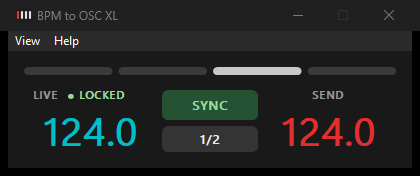
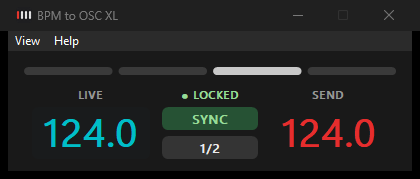
Align the tempo row, fix a tap tempo edge case, README on taking over
Layout
- Tempo numbers, flash boxes and the SYNC / 1/2 buttons in one grid with
  shared top and bottom edges; both buttons the same height.
- Digits centred on their actual shapes, not the font's line height.
- Detection status moved above the SYNC button, so LIVE and SEND are
  centred over their numbers without widening the window.
- Input level bar as tall as the beat lights.

Tap tempo
- A single tap more than a second before a run of taps no longer counts
  towards it (it set a tempo of a few BPM).

README
- How to take over by hand when the detection struggles: tap along with
  Space, fine tune, resync, back to sync with S.
- Status location and the beat flash; screenshots of the current layout.

diff --git a/main_gui.py b/main_gui.py
@@ -258,7 +258,7 @@ class Main_Frame(wx.Frame):
         self.show_detection_state(level)
 
     def show_detection_state(self, level):
-        """Status next to the live tempo: is the tempo coming from the music, or is the clock coasting?"""
+        """Status above the sync button: is the tempo coming from the music, or is the clock coasting?"""
         if not self.running:
             state = None
         elif level < 1:
@@ -438,50 +438,47 @@ class Main_Frame(wx.Frame):
 # BPM DISPLAYS: | LIVE | SYNC / 1/2 | SEND |
         numberfont = widgets.font(30, wx.FONTWEIGHT_SEMIBOLD, display=True)
 
-        def bpm_display(caption, colour, status=None):
-            """Small caption over a big number, sized for the widest tempo so it doesn't jump around"""
-            box = wx.BoxSizer(wx.VERTICAL)
-            # pulses on the beat, under the live tempo when synced, under the send tempo in manual
-            number = widgets.PulseNumber(panel, colour, numberfont)
-            caption_row = wx.BoxSizer(wx.HORIZONTAL)
-            caption_row.Add(heading(caption), 0, wx.ALIGN_CENTRE_VERTICAL)
-            if status is not None:
-                caption_row.Add(status, 0, wx.LEFT | wx.ALIGN_CENTRE_VERTICAL, border=8)
-            box.Add(caption_row, 0, wx.ALIGN_CENTRE_HORIZONTAL)
-            box.Add(number, 0, wx.EXPAND)
-            return box, number
-
-        # detection status, next to the live caption
-        self.status_text = wx.StaticText(panel, label="", style=wx.ST_NO_AUTORESIZE)
+        # detection status, above the sync button in the middle column
+        self.status_text = wx.StaticText(panel, label="", style=wx.ALIGN_CENTRE_HORIZONTAL | wx.ST_NO_AUTORESIZE)
         self.status_text.SetFont(widgets.font(8, wx.FONTWEIGHT_SEMIBOLD))
         self.status_text.SetMinSize(self.status_text.GetTextExtent("\u25cf NO SIGNAL") + wx.Size(4, 0))
 
-        live_box, self.live_number = bpm_display("Live", self.theme['live_on'], self.status_text)
-        send_box, self.send_number = bpm_display("Send", self.theme['send_on'])
+        # pulse on the beat, under the live tempo when synced, under the send tempo in manual;
+        # sized for the widest tempo so the layout doesn't jump around
+        self.live_number = widgets.PulseNumber(panel, self.theme['live_on'], numberfont)
+        self.send_number = widgets.PulseNumber(panel, self.theme['send_on'], numberfont)
 
 # SYNC & HALF TIME BUTTONS between the displays
+        # as tall as the numbers' flash boxes, both buttons the same height
         middle = wx.BoxSizer(wx.VERTICAL)
-        self.button_sync = widgets.FlatButton(panel, 'SYNC', self.theme, toggle=True, size=(96, 30),
+        self.button_sync = widgets.FlatButton(panel, 'SYNC', self.theme, toggle=True, size=(96, 20),
                                               accent=self.theme['sync_fill'], font_=buttonfont)
         self.button_sync.SetForegroundColour(self.theme['status_sync'])
         self.button_sync.SetValue(True)
         self.button_sync.SetToolTip("Sync send tempo to live tempo (S)")
         self.buttons_to_disable.append(self.button_sync)
-        middle.Add(self.button_sync, 0, wx.EXPAND)
+        middle.Add(self.button_sync, 1, wx.EXPAND)
         self.Bind(wx.EVT_TOGGLEBUTTON, self.on_button_sync, self.button_sync)
 
-        self.button_halftime = widgets.FlatButton(panel, '1/2', self.theme, toggle=True, size=(96, 26),
+        self.button_halftime = widgets.FlatButton(panel, '1/2', self.theme, toggle=True, size=(96, 20),
                                                   accent=self.theme['toggle_fill'], font_=buttonfont)
         self.button_halftime.SetToolTip("Half time (H)")
         self.buttons_to_disable.append(self.button_halftime)
-        middle.Add(self.button_halftime, 0, wx.EXPAND | wx.TOP, border=6)
+        middle.AddSpacer(6)  # a spacer, not a border: a border would count towards this button's share
+        middle.Add(self.button_halftime, 1, wx.EXPAND)
         self.Bind(wx.EVT_TOGGLEBUTTON, self.on_button_halftime, self.button_halftime)
 
-        bpm_row = wx.BoxSizer(wx.HORIZONTAL)
-        bpm_row.Add(live_box, 1, wx.ALIGN_CENTRE_VERTICAL)
-        bpm_row.Add(middle, 0, wx.ALIGN_CENTRE_VERTICAL)
-        bpm_row.Add(send_box, 1, wx.ALIGN_CENTRE_VERTICAL)
-        sizer.Add(bpm_row, 0, wx.EXPAND | wx.LEFT | wx.RIGHT | wx.TOP | wx.BOTTOM, border=margin - 4)
+        # one grid, so numbers, flash boxes and buttons share the same top and bottom edges
+        bpm_grid = wx.FlexGridSizer(rows=2, cols=3, vgap=4, hgap=0)
+        bpm_grid.AddGrowableCol(0, 1)
+        bpm_grid.AddGrowableCol(2, 1)
+        bpm_grid.Add(heading("Live"), 0, wx.ALIGN_CENTRE_HORIZONTAL)
+        bpm_grid.Add(self.status_text, 0, wx.EXPAND)
+        bpm_grid.Add(heading("Send"), 0, wx.ALIGN_CENTRE_HORIZONTAL)
+        bpm_grid.Add(self.live_number, 0, wx.EXPAND)
+        bpm_grid.Add(middle, 0, wx.EXPAND)
+        bpm_grid.Add(self.send_number, 0, wx.EXPAND)
+        sizer.Add(bpm_grid, 0, wx.EXPAND | wx.LEFT | wx.RIGHT | wx.TOP | wx.BOTTOM, border=margin - 4)
 
 # BUTTONS: | START / STOP | TAP | RESYNC |
 #          |  -1  |  +1  |  /2  |  x2  |
@@ -862,7 +859,11 @@ class Main_Frame(wx.Frame):
                 self.clock_wake.set()
 
         elif len(self.last_tap) == 1:
-            self.last_tap.append((now, now - self.last_tap[-1][0]))
+            if now - self.last_tap[0][0] > 1:
+                # the first tap is too old to belong to this run, start over with this one
+                self.last_tap = [(now, None)]
+            else:
+                self.last_tap.append((now, now - self.last_tap[-1][0]))
 
         else:
             # if no taps yet, add first tap

diff --git a/widgets.py b/widgets.py
@@ -11,6 +11,7 @@ these draw themselves with anti-aliased rounded shapes in the colours of the cur
 """
 from time import perf_counter
 
+import numpy as np
 import wx
 
 
@@ -192,7 +193,7 @@ class FlatButton(wx.Control):
 class LevelMeter(wx.Control):
     """Slim rounded input level bar (0-100, the caller maps dB to it), green, then yellow, then red towards the top"""
 
-    def __init__(self, parent, theme, height=6):
+    def __init__(self, parent, theme, height=8):
         super().__init__(parent, size=(-1, height), style=wx.BORDER_NONE)
         self.SetBackgroundStyle(wx.BG_STYLE_PAINT)
         self.theme = theme
@@ -271,6 +272,7 @@ class PulseNumber(wx.Control):
 
     PEAK = 0.22  # strength of the flash, as a mix of the number's colour into the background
     DECAY = 0.12  # seconds for the flash to fade to about a third
+    PAD = 12  # space above and below the digits, inside the flash box
 
     def __init__(self, parent, colour, font_, widest="188.8"):
         super().__init__(parent, style=wx.BORDER_NONE)
@@ -284,12 +286,33 @@ class PulseNumber(wx.Control):
         dc = wx.ClientDC(self)
         dc.SetFont(font_)
         w, h = dc.GetTextExtent(widest)
-        self.SetMinSize(wx.Size(w + 28, h + 6))
+        self.ink_top, self.ink_height = self._digit_ink(font_)
+        self.SetMinSize(wx.Size(w + 28, self.ink_height + 2 * self.PAD))
         self.pill_width = w + 24
         self.timer = wx.Timer(self)
         self.Bind(wx.EVT_TIMER, self.on_timer, self.timer)
         self.Bind(wx.EVT_PAINT, self.on_paint)
         self.Bind(wx.EVT_WINDOW_DESTROY, self.on_destroy)
+
+    @staticmethod
+    def _digit_ink(font_):
+        """Top and height of the digits' actual shapes within a line of text. The line also has room for
+        descenders and accents, centring the line would put the digits off centre"""
+        dc = wx.MemoryDC()
+        dc.SetFont(font_)
+        w, h = dc.GetTextExtent("0123456789")
+        bmp = wx.Bitmap(w, h, 24)
+        dc.SelectObject(bmp)
+        dc.SetBackground(wx.BLACK_BRUSH)
+        dc.Clear()
+        dc.SetTextForeground(wx.WHITE)
+        dc.DrawText("0123456789", 0, 0)
+        dc.SelectObject(wx.NullBitmap)
+        pixels = np.frombuffer(bytes(bmp.ConvertToImage().GetData()), np.uint8).reshape(h, w, 3)
+        rows = np.where(pixels.max(axis=(1, 2)) > 96)[0]
+        if len(rows) == 0:
+            return 0, h
+        return int(rows[0]), int(rows[-1] - rows[0] + 1)
 
     def on_destroy(self, event):
         # a running timer must not fire into a destroyed window
@@ -340,4 +363,5 @@ class PulseNumber(wx.Control):
         dc.SetFont(self.GetFont())
         dc.SetTextForeground(self.colour)
         tw, th = dc.GetTextExtent(self.label)
-        dc.DrawText(self.label, (w - tw) // 2, (h - th) // 2)
+        # centre the digits themselves, not the text line
+        dc.DrawText(self.label, (w - tw) // 2, round((h - self.ink_height) / 2) - self.ink_top)

diff --git a/README.md b/README.md
@@ -60,13 +60,27 @@ The tempo range (e.g. 90-180 BPM) sets which tempo is reported when the music co
 speed: a 174 BPM track isn't reported as 87.
 
 ## Status and beat lights
-Next to the live tempo:
+Above the SYNC button:
 - **LOCKED**: clear beats in the music, the tempo and beat follow it.
 - **COASTING**: no clear beat right now (e.g. a breakdown), the clock carries on at the last tempo and phase.
 - **LISTENING**: finding the tempo, takes a few seconds of music.
 - **NO SIGNAL**: the input is silent.
 
-The beat lights show the beat of the bar, beat 1 in red.
+The beat lights show the beat of the bar, beat 1 in red. A faint flash behind a tempo marks each beat: behind
+LIVE when following the music, behind SEND in manual mode.
+
+## When the detection struggles: take over by hand
+Some music is hard to follow automatically: live recordings with a drifting tempo, swing and shuffle, music
+without clear drums, rubato, unusual or changing time signatures. If the status keeps dropping to COASTING or
+the tempo jumps around, take over manually:
+1. **Tap Space in time with the beat.** From the third tap, sync switches off (the button shows MANUAL) and the
+   tapped tempo takes over. Keep tapping to refine it: the tempo is the average of the taps, and each tap
+   puts a beat exactly on it. Taps more than a second apart start a new count.
+2. **Fine tune** with Up / Down (+1 / -1 BPM), or Right / Left to double or halve.
+3. **Press R on the first beat of a bar** to put the bar back in place.
+4. **Press S to follow the music again** when it has a clear beat.
+
+The manual tempo keeps running steadily until you change it, also through breakdowns and silence.
 
 <img src="docs/screenshot_folded.png" width="380" alt="Settings folded away"> <img src="docs/screenshot_compact.png" width="320" alt="Compact mode">
 
